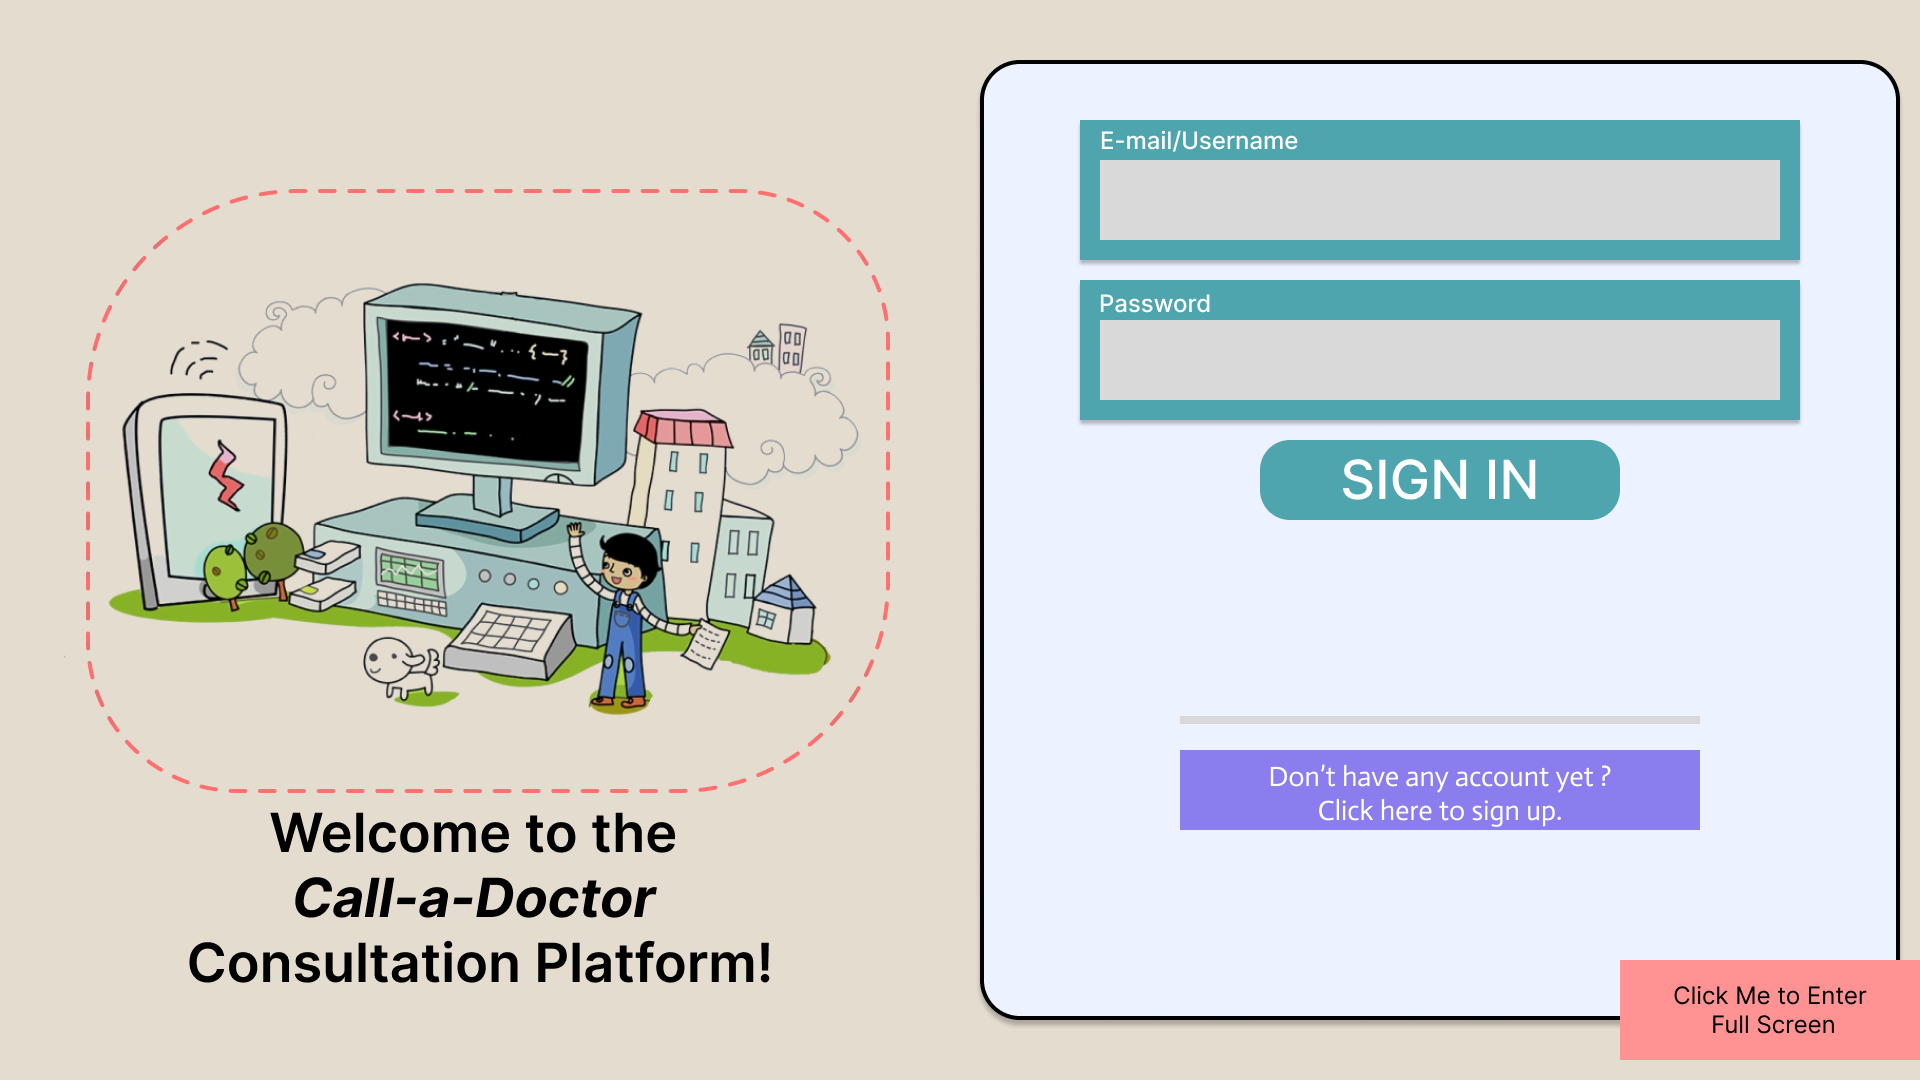
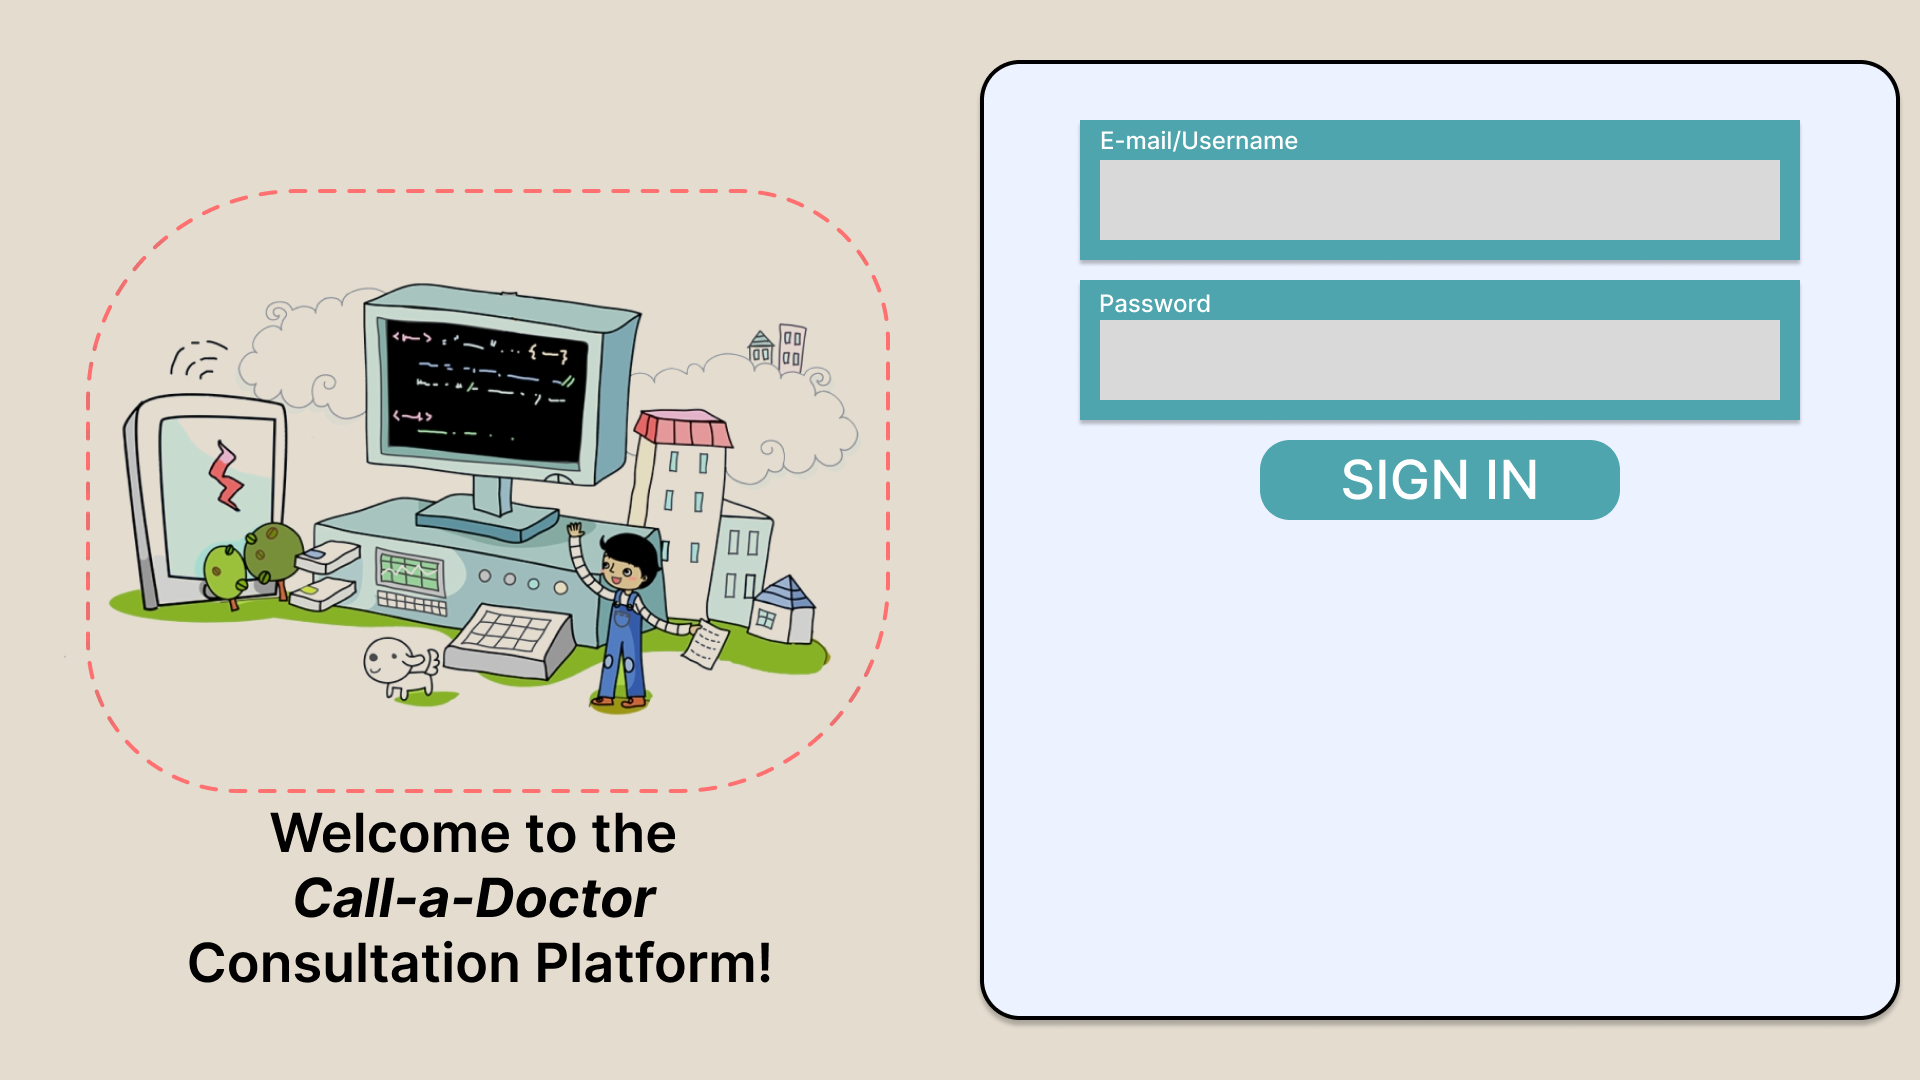
writing out views

Changed region(s): [[0.5938, 0.6417, 0.9062, 0.7944], [0.8438, 0.8861, 1.0, 1.0]]

diff --git a/basewindow.py b/basewindow.py
@@ -62,19 +62,19 @@ class ElementCreator(ttk.Window):
         t.daemon = True
         t.start()
 
-    def createImageReference(self, imagepath: str, classname: str):
-        # stores a key value pair of "classname" : "imagepath"
-        self.imagePathDict[classname] = imagepath
+    def createImageReference(self, ipath: str, classname: str):
+        # stores a key value pair of "classname" : "ipath"
+        self.imagePathDict[classname] = ipath
         # creates a Tkinter image object
-        image = ImageTk.PhotoImage(Image.open(imagepath))
+        image = ImageTk.PhotoImage(Image.open(ipath))
         # stores a key value pair of "classname" : "image" to prevent garbage collection
         self.imageDict[classname] = image
         return image
 
     def settingsUnpacker(self, listoftuples, typeoftuple):
         """
-        format for labels: (imagepath, x, y, classname, root)\n
-        format for buttons: (imagepath, x, y, classname, root, buttonFunction)\n
+        format for labels: (ipath, x, y, classname, root)\n
+        format for buttons: (ipath, x, y, classname, root, buttonFunction)\n
         tupletodict creates a dict mapping to the creator functions.
         TODO: enable styling within here
         """
@@ -86,16 +86,16 @@ class ElementCreator(ttk.Window):
 
     def tupleToDict(self, tup):  # TODO: make this multipurpose
         if len(tup) == 5:
-            return dict(zip(("imagepath", "xpos", "ypos", "classname", "root"), tup))
+            return dict(zip(("ipath", "x", "y", "classname", "root"), tup))
         if len(tup) == 6:
-            return dict(zip(("imagepath", "xpos", "ypos", "classname", "root", "buttonFunction"), tup))
+            return dict(zip(("ipath", "x", "y", "classname", "root", "buttonFunction"), tup))
 
-    def buttonCreator(self, imagepath=None, xpos=None, ypos=None, classname=None, buttonFunction=None, root=None, relief=SUNKEN, overrideRelief=FLAT, bg=WHITE, isPlaced=False) -> Button:
+    def buttonCreator(self, ipath=None, x=None, y=None, classname=None, buttonFunction=None, root=None, relief=SUNKEN, overrideRelief=FLAT, bg=WHITE, isPlaced=False) -> Button:
         """
         Args:
-            imagepath (str): path to the image
-            xpos (int): x position of the button
-            ypos (int): y position of the button
+            ipath (str): path to the image
+            x (int): x position of the button
+            y (int): y position of the button
             classname (str): name of the button.
             buttonFunction (function): function to be called when the button is clicked.
             root (Frame): the root frame to place the button in.
@@ -106,20 +106,20 @@ class ElementCreator(ttk.Window):
 
         Usage:
             self.controller.buttonCreator(
-                imagepath=r"\imagepath.png", xpos=0, ypos=0, 
+                ipath=r"\ipath.png", x=0, y=0, 
                 classname="classname", root=validtkinterparent (Frame, Canvas, ttk.ScrolledFrame),
                 buttonFunction=lambda: function()
             )
         """
         classname = classname.replace(" ", "").lower()
-        self.createImageReference(imagepath, classname)
+        self.createImageReference(ipath, classname)
         image = self.imageDict[classname]
         widthspan = int(image.width()/20)
         # just the vertical length of the image divided by 20 to get rowspan
         heightspan = int(image.height()/20)
         # the W value of the image divided by 20 to get the column position
-        columnarg = int(xpos/20)
-        rowarg = int(ypos/20)
+        columnarg = int(x/20)
+        rowarg = int(y/20)
         if isPlaced:
             placedwidth = int(image.width())
             placedheight = int(image.height())
@@ -131,7 +131,7 @@ class ElementCreator(ttk.Window):
             name=classname, autostyle=False
         )
         if isPlaced:
-            button.place(x=xpos, y=ypos, width=placedwidth,
+            button.place(x=x, y=y, width=placedwidth,
                          height=placedheight)
         else:
             button.grid(row=rowarg, column=columnarg,
@@ -140,12 +140,12 @@ class ElementCreator(ttk.Window):
         self.widgetsDict[classname].grid_propagate(False)
         return button
 
-    def labelCreator(self, imagepath, xpos, ypos, classname=None, root=None, overrideRelief=FLAT, isPlaced=False, bg=WHITE) -> Label:
+    def labelCreator(self, ipath, x, y, classname=None, root=None, overrideRelief=FLAT, isPlaced=False, bg=WHITE) -> Label:
         """
         Args:
-            imagepath (str): path to the image
-            xpos (int): x position of the label
-            ypos (int): y position of the label
+            ipath (str): path to the image
+            x (int): x position of the label
+            y (int): y position of the label
             classname (str): name of the label.
             root (Frame): the root frame to place the label in.
             isPlaced (bool): whether or not the label is placed.
@@ -155,19 +155,19 @@ class ElementCreator(ttk.Window):
 
         Usage:
             self.controller.labelCreator(
-                imagepath=r"\imagepath.png", xpos=0, ypos=0, 
+                ipath=r"\ipath.png", x=0, y=0, 
                 classname="classname", root=validtkinterparent (Frame, Canvas, ttk.ScrolledFrame),
             )
         """
         classname = classname.replace(" ", "").lower()
-        self.createImageReference(imagepath, classname)
+        self.createImageReference(ipath, classname)
         image = self.imageDict[classname]
         widthspan = int(image.width()/20)
         # just the vertical length of the image divided by 20 to get rowspan
         heightspan = int(image.height()/20)
         # the W value of the image divided by 20 to get the column position
-        columnarg = int(xpos/20)
-        rowarg = int(ypos/20)
+        columnarg = int(x/20)
+        rowarg = int(y/20)
         placedwidth = int(image.width())
         placedheight = int(image.height())
         label = Label(
@@ -176,31 +176,31 @@ class ElementCreator(ttk.Window):
             autostyle=False, bg=bg
         )
         if isPlaced:
-            label.place(x=xpos, y=ypos, width=placedwidth, height=placedheight)
+            label.place(x=x, y=y, width=placedwidth, height=placedheight)
         else:
             label.grid(row=rowarg, column=columnarg,
                        rowspan=heightspan, columnspan=widthspan, sticky=NSEW)
         self.updateWidgetsDict(root=root)
         return label
 
-    def frameCreator(self, xpos, ypos, framewidth, frameheight, root=None, classname=None, bg=LIGHTYELLOW, relief=FLAT, imgSettings=None, isPlaced=False) -> Frame:
+    def frameCreator(self, x, y, framewidth, frameheight, root=None, classname=None, bg=LIGHTYELLOW, relief=FLAT, imgSettings=None, isPlaced=False) -> Frame:
         classname = classname.replace(" ", "").lower()
         widthspan = int(framewidth / 20)
         heightspan = int(frameheight / 20)
-        columnarg = int(xpos / 20)
-        rowarg = int(ypos / 20)
+        columnarg = int(x / 20)
+        rowarg = int(y / 20)
 
         frame = Frame(root, width=1, height=1, bg=bg,
                       relief=relief, name=classname, autostyle=False,)
         if isPlaced:
-            frame.place(x=xpos, y=ypos, width=framewidth, height=frameheight)
+            frame.place(x=x, y=y, width=framewidth, height=frameheight)
         else:
             frame.grid(row=rowarg, column=columnarg, rowspan=heightspan,
                        columnspan=widthspan, sticky=NSEW)
         self.updateWidgetsDict(root=root)
         if imgSettings:
             listofimages = list(enumerate(imgSettings))
-        # imgBg is a list of tuples containing (imagepath, x, y, name)
+        # imgBg is a list of tuples containing (ipath, x, y, name)
         # example = [("Assets\Dashboard\Top Bar.png", 0, 0, "stringwhatever"),] -> 0 ('Assets\\Dashboard\\Top Bar.png', 0, 0, 'stringwhatever')
         for widgetname, widget in root.children.items():
             if widgetname == classname:
@@ -211,17 +211,17 @@ class ElementCreator(ttk.Window):
                         # print(j[1] / 20, j[2] / 20)
                         self.buttonCreator(
                             j[0],
-                            j[1] - xpos,
-                            j[2] - ypos,
+                            j[1] - x,
+                            j[2] - y,
                             classname=j[3],
                             root=widget,
                             buttonFunction=j[4])
         return frame
 
-    def entryCreator(self, xpos, ypos, width, height, root=None, classname=None, bg=WHITE, relief=FLAT, fg=BLACK, textvariable=None, pady=None, font=("Avenir Next Medium", 16)) -> Entry:
+    def entryCreator(self, x, y, width, height, root=None, classname=None, bg=WHITE, relief=FLAT, fg=BLACK, textvariable=None, pady=None, font=("Avenir Next Medium", 16)) -> Entry:
         classname = classname.lower().replace(" ", "")
-        columnarg = int(xpos / 20)
-        rowarg = int(ypos / 20)
+        columnarg = int(x / 20)
+        rowarg = int(y / 20)
         widthspan = int(width / 20)
         heightspan = int(height / 20)
         self.updateWidgetsDict(root=root)
@@ -235,10 +235,10 @@ class ElementCreator(ttk.Window):
                 widget.grid_propagate(False)
         return entry
 
-    def canvasCreator(self, xpos, ypos, width, height, root, classname=None, bgcolor=WHITE, imgSettings=None, relief=FLAT, isTransparent=False, transparentcolor=TRANSPARENTGREEN) -> Canvas:
+    def canvasCreator(self, x, y, width, height, root, classname=None, bgcolor=WHITE, imgSettings=None, relief=FLAT, isTransparent=False, transparentcolor=TRANSPARENTGREEN) -> Canvas:
         classname = classname.lower().replace(" ", "")
-        columnarg = int(xpos / 20)
-        rowarg = int(ypos / 20)
+        columnarg = int(x / 20)
+        rowarg = int(y / 20)
         widthspan = int(width / 20)
         heightspan = int(height / 20)
         if imgSettings:
@@ -274,16 +274,16 @@ class ElementCreator(ttk.Window):
         self.updateWidgetsDict(root=root)
         return canvas
 
-    def menubuttonCreator(self, xpos=None, ypos=None, width=None, height=None, root=None, classname=None, bgcolor=WHITE, relief=FLAT, font=("Helvetica", 16), text=None, variable=None, listofvalues=None, command=None) -> ttk.Menubutton:
+    def menubuttonCreator(self, x=None, y=None, width=None, height=None, root=None, classname=None, bgcolor=WHITE, relief=FLAT, font=("Helvetica", 16), text=None, variable=None, listofvalues=None, command=None) -> ttk.Menubutton:
         """
-        Takes in arguments xpos, ypos, width, height, from Figma, creates a frame,\n
+        Takes in arguments x, y, width, height, from Figma, creates a frame,\n
         and places a menubutton inside of it. The menubutton is then returned into the global dict of widgets.\n
         Requires a var like StringVar() to be initialized and passed in.\n
         Feed in a list of values and command functions to be used in the menubutton.\n
         Styling handled by passing in a formatted classname and font to config a style.
         """
-        columnarg = int(xpos / 20)
-        rowarg = int(ypos / 20)
+        columnarg = int(x / 20)
+        rowarg = int(y / 20)
         widthspan = int(width / 20)
         heightspan = int(height / 20)
         classname = classname.lower().replace(" ", "")
@@ -302,7 +302,7 @@ class ElementCreator(ttk.Window):
                                 font=("Urbanist Medium", 20))
             menustyle.map(themename, foreground=[('active', BLACK), ("disabled", BLACK)],
                           background=[('active', "#ffe3bd"), ("disabled", "#ffe3bd")])
-        self.frameCreator(xpos, ypos, width, height, root,
+        self.frameCreator(x, y, width, height, root,
                           classname=f"{classname}hostfr", bg=bgcolor, relief=FLAT)
         frameref = self.widgetsDict[f"{classname}hostfr"]
         menubutton = ttk.Menubutton(
@@ -327,21 +327,21 @@ class ElementCreator(ttk.Window):
 
         return menubutton
 
-    def ttkEntryCreator(self, xpos=None, ypos=None, width=None, height=None, root=None, classname=None, bgcolor=WHITE, relief=FLAT, font=("Helvetica", 16), fg=BLACK, validation=False, passwordchar="*", captchavar=None, isPlaced=False) -> ttk.Entry:
+    def ttkEntryCreator(self, x=None, y=None, width=None, height=None, root=None, classname=None, bgcolor=WHITE, relief=FLAT, font=("Helvetica", 16), fg=BLACK, validation=False, passwordchar="*", captchavar=None, isPlaced=False) -> ttk.Entry:
         """
-        Takes in arguments xpos, ypos, width, height, from Figma, creates a frame,\n
+        Takes in arguments x, y, width, height, from Figma, creates a frame,\n
         and places a ttk.Entry inside of it. The ttk.Entry is then returned into the global dict of widgets.\n
         Requires a var like StringVar() to be initialized and passed in.\n
         Styling handled by passing in a formatted classname and font to config a style.
         """
         classname = classname.lower().replace(" ", "")
-        columnarg = int(xpos / 20)
-        rowarg = int(ypos / 20)
+        columnarg = int(x / 20)
+        rowarg = int(y / 20)
         widthspan = int(width / 20)
         heightspan = int(height / 20)
         # entrystyle = ttk.Style()
         # entrystyle.configure(f"{classname}.TEntry", font=font, background=bgcolor, foreground=WHITE)
-        frame = self.frameCreator(xpos, ypos, width, height, root,
+        frame = self.frameCreator(x, y, width, height, root,
                                   classname=f"{classname}hostfr", bg=bgcolor, relief=FLAT, isPlaced=isPlaced)
 
         @validator
@@ -401,12 +401,12 @@ class ElementCreator(ttk.Window):
         self.updateWidgetsDict(root=root)
         return entry
 
-    def textElement(self, imagepath, xpos, ypos, classname=None, buttonFunction=None, root=None, relief=FLAT, fg=BLACK, bg=WHITE, font=SFPRO, text=None, size=40, isPlaced=False, yIndex=0, xoffset=0) -> Label | Button:
+    def textElement(self, ipath, x, y, classname=None, buttonFunction=None, root=None, relief=FLAT, fg=BLACK, bg=WHITE, font=SFPRO, text=None, size=40, isPlaced=False, yIndex=0, xoffset=0) -> Label | Button:
         classname = classname.replace(" ", "").lower()
         # ~~~ ADD TEXT TO IMAGE FUNCTIONS ~~~
         h = fg.lstrip("#")
         textcolor = tuple(int(h[i:i+2], 16) for i in (0, 2, 4))
-        im = Image.open(imagepath)
+        im = Image.open(ipath)
         font = ImageFont.truetype(font, size)
         draw = ImageDraw.Draw(im)
         # print(im.size) # Returns (width, height) tuple
@@ -421,8 +421,8 @@ class ElementCreator(ttk.Window):
         # ~~~~~~~~~~~~~~~~~~~~~~~~~~~~~~~~~~~
         widthspan = int(image.width()/20)
         heightspan = int(image.height()/20)
-        columnarg = int(xpos/20)
-        rowarg = int(ypos/20)
+        columnarg = int(x/20)
+        rowarg = int(y/20)
         placedwidth = int(widthspan*20)
         placedheight = int(heightspan*20)
 
@@ -430,7 +430,7 @@ class ElementCreator(ttk.Window):
             if isPlaced:
                 element = Button(root, image=image, cursor="hand2", command=lambda: buttonFunction() if buttonFunction else print("No function assigned to button"),
                                  relief=relief, bg=bg, width=1, height=1, name=classname, autostyle=False)
-                element.place(x=xpos, y=ypos, width=placedwidth,
+                element.place(x=x, y=y, width=placedwidth,
                               height=placedheight)
             else:
                 element = Button(root, image=image, cursor="hand2", command=lambda: buttonFunction() if buttonFunction else print("No function assigned to button"),
@@ -441,7 +441,7 @@ class ElementCreator(ttk.Window):
             if isPlaced:
                 element = Label(root, image=image, relief=relief, bg=bg,
                                 width=1, height=1, name=classname, autostyle=False)
-                element.place(x=xpos, y=ypos, width=placedwidth,
+                element.place(x=x, y=y, width=placedwidth,
                               height=placedheight)
             else:
                 element = Label(root, image=image, relief=relief, bg=bg,

diff --git a/main.py b/main.py
@@ -34,31 +34,48 @@ class Window(ElementCreator):
             frame = F(parent=self.parentFrame, controller=self)
             self.frames[F] = frame
             frame.grid(row=0, column=0, columnspan=96, rowspan=54, sticky=NSEW)
-            self.maincanvas = self.canvasCreator(
-                xpos=80,
-                ypos=80,
-                width=1920,
-                height=920,
-                root=self,
-                classname="maincanvas",
-                bgcolor=WHITE,
-                isTransparent=True,
-                transparentcolor=LIGHTYELLOW,
-            )
             frame.grid_remove()
 
-        # self.postSelectFrame.tkraise()
-        # self.show_frame(HomePage)
         self.loadSignIn()
+        # self.show_frame(HomePage)
         self.bind("<F11>", lambda e: self.togglethewindowbar())
 
     def loadSignIn(self):
-        self.labelCreator(
-            imagepath=r"assets\HomePage\SignIn.png",
-            xpos=0,
-            ypos=0,
+        self.bg = self.labelCreator(
+            root=self.parentFrame,
+            x=0, y=0,
+            ipath=r"assets\HomePage\SignIn.png",
             classname="homepagebg",
-            root=self,
+        )
+        """
+        self.paramDict = {
+            "emailentry": {
+                "root": self.parentFrame,
+                "x": 1100, "y": 160,
+                "width": 680, "height": 80,
+                "classname":  EMAIL_ENT,
+            },
+            "passwordentry": {
+                "root": self.parentFrame,
+                "x": 1100, "y": 320,
+                "width": 680, "height": 80,
+                "classname": PW_ENT,
+            },
+        }
+        for paramname, param in self.paramDict.items():
+            self.widgetsDict[paramname] = self.ttkEntryCreator(**param)
+        self.widgetsDict[EMAIL_ENT].grid_remove() """
+        self.loginEmailEntry = self.ttkEntryCreator(
+            root=self.parentFrame,
+            x=1100, y=160,
+            width=680, height=80,
+            classname="emailentry"
+        )
+        self.loginPasswordEntry = self.ttkEntryCreator(
+            root=self.parentFrame,
+            x=1100, y=320,
+            width=680, height=80,
+            classname="passwordentry"
         )
 
     def updateWidgetsDict(self, root: Frame):
@@ -123,7 +140,7 @@ class Window(ElementCreator):
         self.resizable(False, False)
         self.bind("<Escape>", lambda e: self.destroy())
         self.parentFrame = Frame(
-            self, bg=ORANGE, width=1, height=1, name="parentframe", autostyle=False
+            self, bg=ORANGE, width=1920, height=1080, name="parentframe", autostyle=False
         )
         self.parentFrame.grid(row=0, column=0, rowspan=96,
                               columnspan=54, sticky=NSEW)
@@ -141,10 +158,10 @@ class HomePage(Frame):
 
     def load(self):
         self.CT = self.controller
-        # self.controller.maincanvas = self.controller.canvasCreator(
-        #     xpos=80, ypos=80, width=1920, height=920, root=self,
-        #     classname="maincanvas", bgcolor=WHITE, isTransparent=True, transparentcolor=LIGHTYELLOW
-        # )
+        self.maincanvas = self.controller.canvasCreator(
+            x=80, y=80, width=1920, height=920, root=self,
+            classname="maincanvas", bgcolor=WHITE, isTransparent=True, transparentcolor=LIGHTYELLOW
+        )
 
 
 def runGui():
